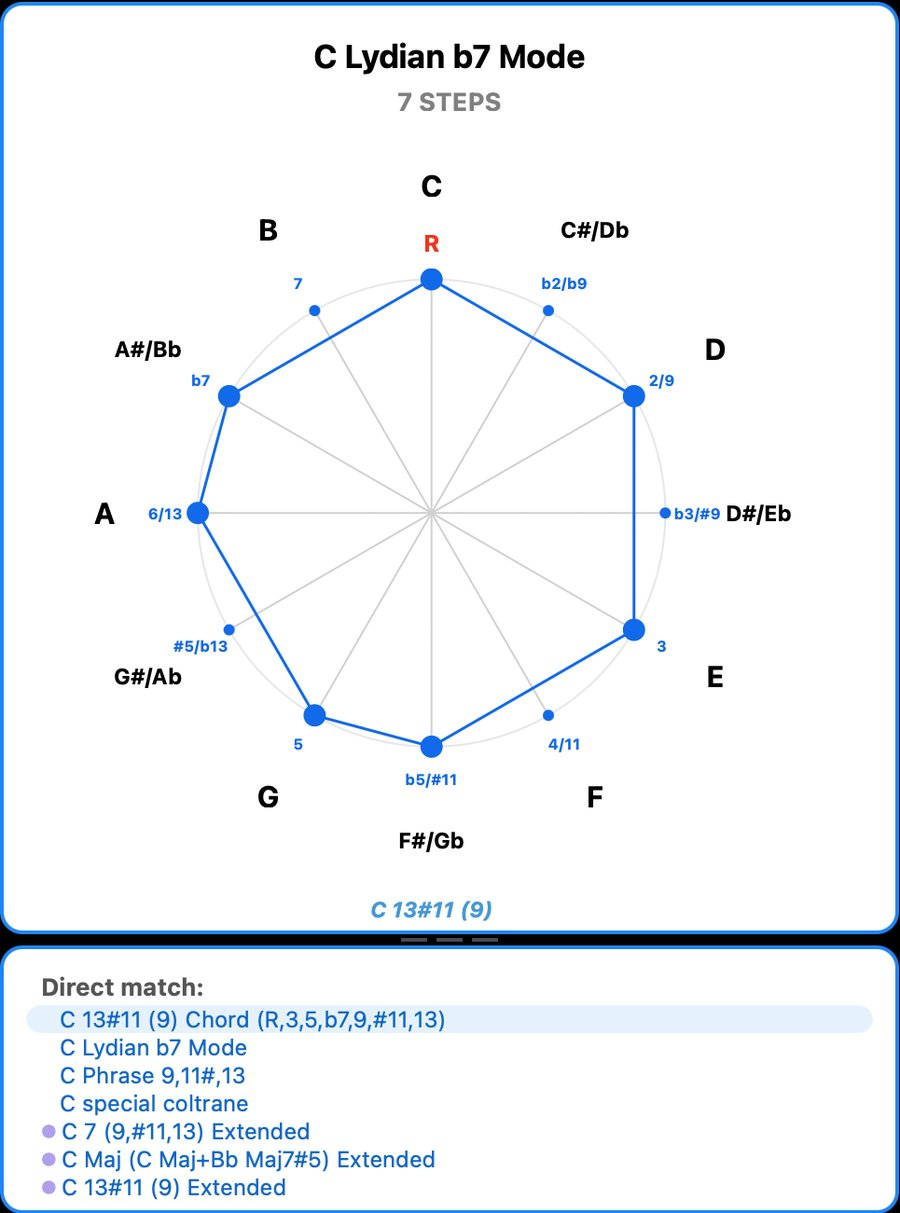
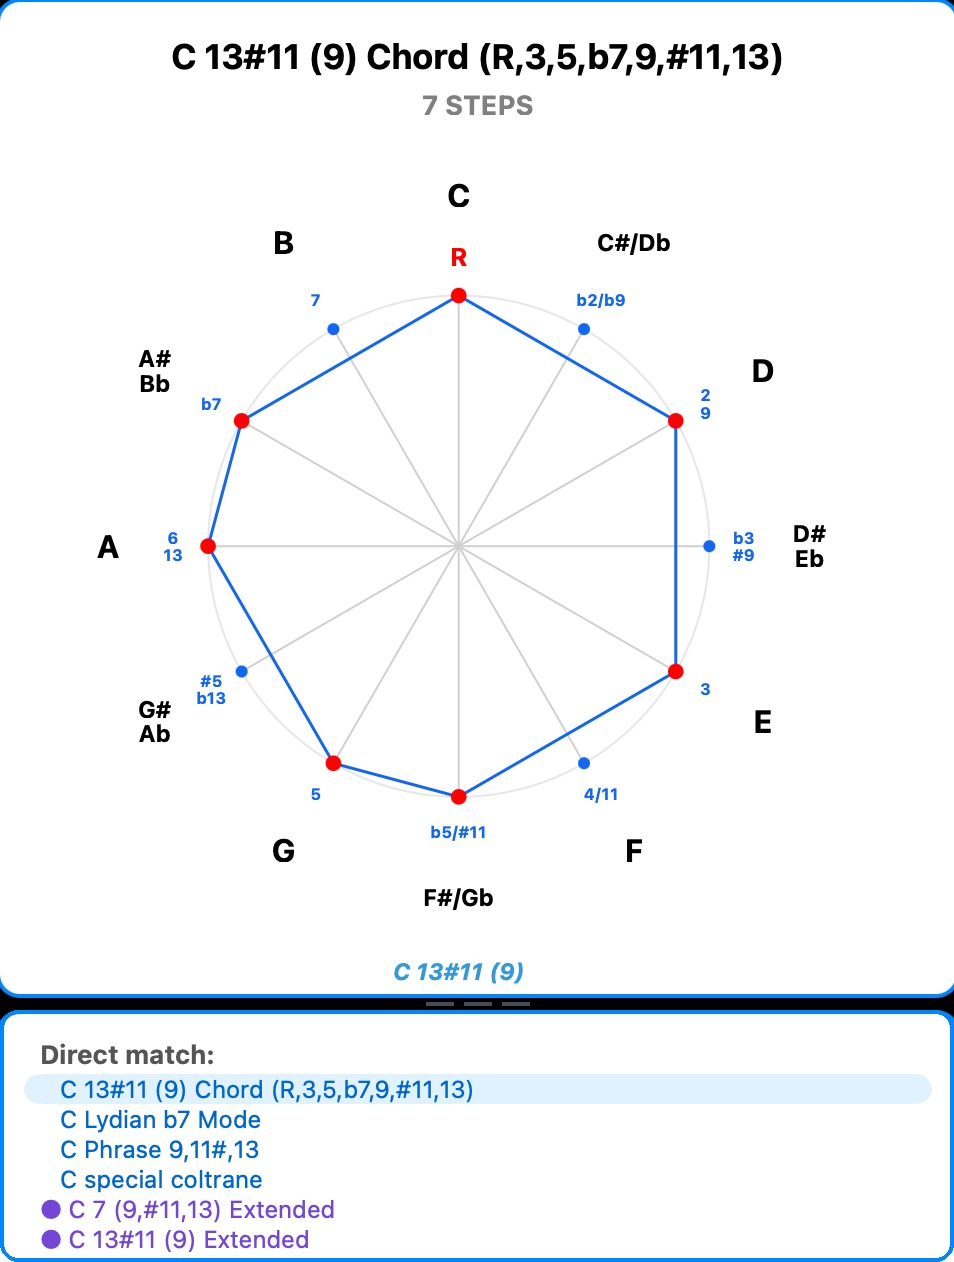
Mise à jour des textes (transposition, Tonicizer, Workshop, reconnaissance, jeu en direct) et nouveau cercle rogné
Claude-Session: https://claude.ai/code/session_01T7S4535oFTDksTTsakkF7v

diff --git a/index.html b/index.html
@@ -159,7 +159,7 @@ footer a{color:var(--texte)}
           <p class="fr">Ici, les mêmes sept notes se lisent comme un accord C 13#11 ou comme le mode lydien b7.</p>
           <p class="en">Here the same seven notes read as a C 13#11 chord or as the Lydian b7 mode.</p>
         </div>
-        <figure class="capture"><img src="img/cercle.jpg" alt="Le cercle harmonique de TAMBOUILLE affichant C Lydian b7 et ses lectures" width="900" height="1213"><figcaption>C Lydian b7 · Direct match</figcaption></figure>
+        <figure class="capture"><img src="img/cercle.jpg" alt="Le cercle harmonique de TAMBOUILLE affichant C 13#11 (9) et la liste de ses lectures" width="954" height="1262"><figcaption>C 13#11 (9) · Direct match</figcaption></figure>
       </div>
     </section>
 
@@ -168,8 +168,8 @@ footer a{color:var(--texte)}
         <div>
           <p class="etiquette">Workshop</p>
           <h2 class="fr">Deux mains, un accord</h2><h2 class="en">Two hands, one chord</h2>
-          <p class="fr">Construisez un accord comme au piano avec les progressions contemporaines : la main gauche d'un côté, la main droite de l'autre. TAMBOUILLE nomme le résultat et chiffre chaque note, jusqu'aux tensions les plus hautes.</p>
-          <p class="en">Build a chord the way a pianist does, with contemporary progressions: left hand on one side, right hand on the other. TAMBOUILLE names the result and labels every note, up to the highest tensions.</p>
+          <p class="fr">Construisez des accords de piano à deux mains, avec des progressions contemporaines (progressions Coltraniennes, Bill Evans, etc.) : la main gauche d'un côté, la main droite de l'autre. TAMBOUILLE nomme le résultat et chiffre chaque note, jusqu'aux tensions les plus hautes.</p>
+          <p class="en">Build two-hand piano chords, with contemporary progressions (Coltrane-style progressions, Bill Evans, etc.): left hand on one side, right hand on the other. TAMBOUILLE names the result and labels every note, up to the highest tensions.</p>
           <div class="chiffrage"><span class="g">C7</span> + <span class="d">D</span> = R 3 5 b7 9 #11 13</div>
         </div>
         <figure class="capture"><img src="img/workshop.jpg" alt="Le Workshop : C7 à la main gauche, D majeur à la main droite" width="1600" height="1099"><figcaption><span class="fr">Main gauche C7 · main droite D Maj</span><span class="en">Left hand C7 · right hand D Maj</span></figcaption></figure>
@@ -182,20 +182,20 @@ footer a{color:var(--texte)}
           <p class="etiquette fr">Pour composer et enseigner</p><p class="etiquette en">For composing and teaching</p>
           <h2 class="fr">Entre votre clavier et Logic</h2><h2 class="en">Between your keyboard and Logic</h2>
           <ul class="points fr">
-            <li><strong>128 cases</strong>, chacune un accord ou une gamme complète, jouées depuis le clavier ou pilotées par Logic.</li>
-            <li><strong>Transposition par fonction harmonique</strong> : une quinte reste une quinte.</li>
-            <li><strong>Le Tonicizer</strong> : 24 tonalités × 7 degrés et leurs variantes modales.</li>
+            <li><strong>128 cases</strong>, chacune un accord ou une gamme complète, jouées en direct ou pilotées par Logic Pro, pour créer des harmonies homophoniques.</li>
+            <li><strong>Transposition précise</strong>, basée sur les intervalles.</li>
+            <li><strong>Le Tonicizer</strong> : les accords des tonalités parallèles, selon différents cycles et variations modales (24 tonalités × 7 degrés).</li>
             <li><strong>Une médiathèque</strong> d'accords et de gammes, que vous enrichissez de vos propres voicings.</li>
-            <li><strong>Reconnaissance des accords</strong> sur les 12 demi-tons de la gamme chromatique grâce à la rotation du Carrousel.</li>
+            <li><strong>Reconnaissance et lecture des accords</strong>, avec propositions sur chacun des 12 demi-tons de la gamme chromatique, choisis comme fondamentale, grâce à la rotation du Carrousel.</li>
             <li><strong>Transposition et conversion</strong> des gammes en mode.</li>
             <li><strong>Propositions d'extension</strong> des accords et chiffrage sur basse.</li>
           </ul>
           <ul class="points en">
-            <li><strong>128 slots</strong>, each a full chord or scale, played from your keyboard or driven by Logic.</li>
-            <li><strong>Transposition by harmonic function</strong>: a fifth stays a fifth.</li>
-            <li><strong>The Tonicizer</strong>: 24 keys × 7 degrees and their modal variants.</li>
+            <li><strong>128 slots</strong>, each a full chord or scale, played live or driven by Logic Pro, to create homophonic harmonies.</li>
+            <li><strong>Precise transposition</strong>, based on intervals.</li>
+            <li><strong>The Tonicizer</strong>: the chords of parallel keys, through different cycles and modal variations (24 keys × 7 degrees).</li>
             <li><strong>A library</strong> of chords and scales that you extend with your own voicings.</li>
-            <li><strong>Chord recognition</strong> on all 12 semitones of the chromatic scale, thanks to the rotating Carousel.</li>
+            <li><strong>Chord recognition and reading</strong>, with suggestions on each of the 12 chromatic semitones, chosen as the root, thanks to the rotating Carousel.</li>
             <li><strong>Transposition and conversion</strong> of scales into modes.</li>
             <li><strong>Suggested chord extensions</strong> and figured-bass labelling over any bass note.</li>
           </ul>
